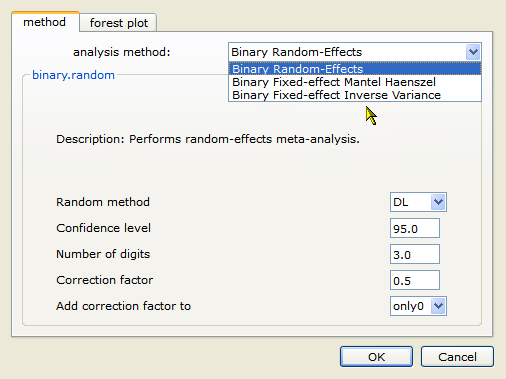
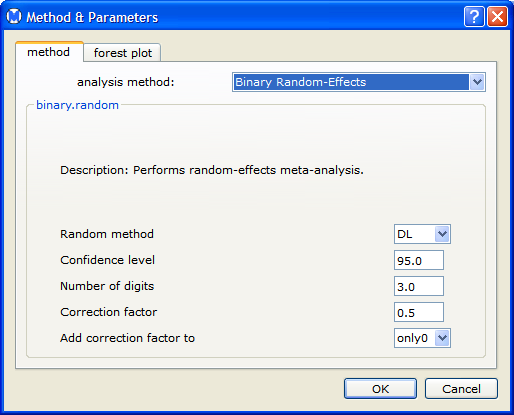
Doc update.

Changed region(s): [[0.0, 0.0, 1.0, 1.0], [0.0889, 0.3483, 0.7115, 0.4354]]

diff --git a/doc/analysis_options.html b/doc/analysis_options.html
@@ -1,25 +1,34 @@
+<html>
+<head>
 <link href="css/help.css" 
 type=text/css rel=stylesheet>
+</head>
+<body>
 <h2><a name="top">Meta-Analysis Options</a></h2>
-  <p>The following analysis options are available in the Methods & Parameters dialog.</p>
+  <p>You can choose options for a meta-analysis by selecting the <b>method</b> tab of the Method & Parameters dialog, shown below.
+</p>
    <p><img src="images/analysis_parameters_dialog.png"></p>
+ <h3>Options for All Methods Except HSROC</h3>
+ <p> The following analysis options are available for all methods except HSROC:</p>  
   <ul>
-      <li>analysis method - The method for the meta-analysis</li>
-      <li>Random method (
-  		<li>Confidence level - The confidence level for the estimate</li>
-  		<li>Number of digits - The number of digits after the decimal point to be displayed in results.</li>
-  </ul>
-  <h3>Binary and Continuous Data Only</h3>
-  <ul>
-  		<li>Correction factor - Number added to the data when there are studies that have zero counts. The correction is added according to the
-  		the value of the <b>Add correction factor to</b> parameter.</li><br>
-  		<li>Add correction factor to - Can take one of the following values:<br>
+      <li>analysis method - Method for the meta-analysis. See <a href="analysis_methods.html">Meta-Analysis Methods</a>.</li>
+      <li>Random method -Random-effects method. <b>Note:</b> This is only available when <b>Random-Effects</b> is selected in the analysis method field. See <a                            href="analysis_methods.html#random">Random-Effects Options</a>.</li>
+  		<li>Confidence level - Confidence level for the estimate</li>
+  		<li>Number of digits - Number of digits after the decimal point to be displayed in results.</li>
+  		<li>Correction factor - Number added to the data when there are studies that have zero counts. </li>
+  		<li>Add correction factor to - Determines when the correction factor is applied:
   				<ul>
-  						<li>only0 - The correction factor is only added to the data for studies that have zero counts.</li><br>
+  						<li>only0 - The correction factor is only added to the data for studies that have zero counts.</li>
   						<li>all - When at least one study has a zero count, the correction factor is added to the data for all studies.</li>
   				</ul>
   	</ul>
-  	<h3>Random-Effect Models</h3>
+  	<h3>HSROC Options</h3>
+  	<p>The following options are available for the diagnostic method HSROC (Hierarchical Summary Receiver Operating Characteristic):</p>
   	<ul>
-  		<li>rm.method - Specifies the method for the model.</li>
-  	</ul>	
+  	  <li>Number of iterations - Number of iterations of the Gibbs sampler.</li>
+  	  <li>Burn in - Number of initial iterations of the Gibbs sampler to be dropped</li>
+  	  <li>Thin - Integer k specifying that only iterations that are a multiple of k contribute to the estimates being calculated.</li>
+  	<ul>
+  	
+ </body>
+</html>

diff --git a/doc/analysis.html b/doc/analysis.html
@@ -19,14 +19,12 @@ type=text/css rel=stylesheet>
          <p><img src="images/analysis_menu.png"></p>
          <p>The risk ratios are now displayed in the effect size column.</p>
          <p><img src="images/amino_risk_ratio.png"></p>
-        <p>See <a href="analysis_metrics.html#top">Metric Options</a> for a complete description of the available metrics.</p> </li>
+         <p>See <a href="analysis_metrics.html#top">Metric Options</a> for a complete description of the available metrics.</p> </li>
     <li>In the <b>Analysis</b> menu,
-        select <b>meta-analysis</b> .
+        select <b>meta-analysis</b>.
        This opens the Methods &amp; Parameters dialog, as shown below.
-    <p><img src="images/analysis_parameters_dialog.png"></p></li>
-    <li>Click the analysis method field and select a method for the analysis. The default method is <b>Binary Random-Effects.</b>.
-       <p><img src="images/select_method.png"></p>
-       <p>See
+    <p><img src="images/analysis_parameters_dialog.png"></p>
+    <p>You can select a method in the analysis method field. The default method is <b>Binary Random-Effects.</b>. See
        <a href="analysis_methods.html#top">Analysis Options</a> for a complete description of the available methods.</p></li>
     <li>Select the <b>forest plot</b> tab, which displays the forest plot parameters dialog.</b>
     <p><img src="images/forest_plot_params.png"></p></li>
@@ -38,10 +36,11 @@ type=text/css rel=stylesheet>
   </ol>
   <p>The results are displayed in the results/analysis window, as shown below:</p>
   <ul>
-<li>The Summary contains the overall results of the meta-analysis, including the summary estimate, confidence interval, and heterogeneity statistics.</li>
+<li>The Summary contains individual study data and the overall results of the meta-analysis, including the summary estimate, confidence interval, and heterogeneity statistics.</li>
 <li>The Forest Plot provides a graphical display of the point estimates and confidence intervals for each study, as well as the overall estimate.</li>
 </ul>
-<p><img src="images/ma_standard_summary.png"></p>
+<p><img src="images/ma_study_data.png">
+<img src="images/ma_standard_summary.png"></p>
 <p><a id="Lau_ref">Source: Barza, M., Ioannidis, J., Cappelleri, J., Lau, J.  "Single or multiple daily doses of aminoglycosides: a meta-analysis." BMJ, Vol. 312, 1966. </a></p>
 <p><a href="#top">Back to top</a></p>
 <br>

diff --git a/doc/plot_options.html b/doc/plot_options.html
@@ -6,13 +6,13 @@ type=text/css rel=stylesheet>
   src="images/plot_options.png"></img>&nbsp;</img>     
   <p>In the forest plot pane, you can specify labels for the following columns displayed on the forest plot:</p>
      <ul>
-        <li>col 1 - The study names column</li>
-        <li>col 2 - Estimates and confidence intervals</li>
+        <li>col 1 label - The study names column</li>
+        <li>col 2 label - Estimates and confidence intervals</li>
      </ul>
      <p>For binary data only you can also specify the following column labels:</p>
       <ul>
-        <li>col 3 - Raw data for number of events and subjects in the treatment group.</li>
-        <li>col 4 - Raw data for number of events and subjects in the control group.</li>
+        <li>col 3 label - Raw data for number of events and subjects in the treatment group.</li>
+        <li>col 4 label - Raw data for number of events and subjects in the control group.</li>
     </ul>   
   <p>To prevent a column or columns from being 
   displayed in the forest plot, clear the <b>show</b> check boxes corresponding to those columns.</p>
@@ -22,5 +22,5 @@ type=text/css rel=stylesheet>
  		<li>x-axis lower bound - Lower bound for the range of data displyed in the plot. <b>Note:</b> x-axis lower bound must be less than the effect size for all studies - otherwise, the setting is ignored.</li>
  		<li>x-axis upper bound - Upper bound for the range of data displyed in the plot. <b>Note:</b> x-axis upper bound must be greater than the effect size for all studies - otherwise, the setting is ignored.</li>
  		<li>x ticks - Tick marks for the x-axis</li>
- 		<li>save image to: - The local directory in which the forest plot is saved.</li>
+ 		<li>save image to: - The path to the file in which the forest plot is saved</li>
  </ul>

diff --git a/doc/analysis_methods.html b/doc/analysis_methods.html
@@ -1,7 +1,11 @@
+<html>
+<head>
 <link href="css/help.css" 
 type=text/css rel=stylesheet>
+</head>
+<body>
 <h2><a name="top">Meta-Analysis Methods</a></h2>
-  <p>This section describes the analysis methods available in Open Meta-Analyst.</p>
+  <p>The following methods are available for performing a meta-analysis. You can select a method in the analysis method field in the Method & Parameters dialog.</p>
   <h3>Binary Methods</h3>
     <ul>
       <li>Fixed-effect inverse variance</li>
@@ -17,17 +21,20 @@ type=text/css rel=stylesheet>
      </ul>
   <h3>Diagnostic Methods</h3>
   	  <ul>
+  	    <li>Bivariate (Maximum Likelihood)</li>
+       <li>HSROC (Hierarchical Summary Receiver Operating Characteristic)</li>
        <li>Fixed-effect inverse variance</li>
-       <li>Random-effects</li>
-    </ul>
-    
-  <p>Random-effects methods include the following:</p>
-     <ul>
-       <li>HE - Hedges estimator</li>
-       <li>DL - DerSimonian-Laird</li>
-       <li>SJ - Sidik-Jonkman</li>
-       <li>ML - Maximum likelihood</li>
-       <li>REML - Restricted maximum likelihood</li>
-       <li>EB - Empirical Bayes</li>
-  </ul>
-     
+       <li>Random-effects
+     </ul>
+ <p><b>Random-Effects Options</b></p>    
+ <p><a name="random">For random-effects methods, the following options are available:</a></p>
+       <ul>
+          <li>HE - Hedges estimator</li>
+          <li>DL - DerSimonian-Laird</li>
+          <li>SJ - Sidik-Jonkman</li>
+          <li>ML - Maximum likelihood</li>
+          <li>REML - Restricted maximum likelihood</li>
+          <li>EB - Empirical Bayes</li>
+      </ul>     
+</body>
+</html>

diff --git a/doc/analysis_metrics.html b/doc/analysis_metrics.html
@@ -1,5 +1,9 @@
+<html>
+<head>
 <link href="css/help.css" 
 type=text/css rel=stylesheet>
+</head>
+<body>
 <h2><a name="top">Analysis Metrics</a></h2>
   <p>This section describes the metrics available in Open Meta-Analyst.</p>
   <h3>Metrics for Binary Data</h3>
@@ -43,14 +47,15 @@ type=text/css rel=stylesheet>
   	
   	<h3>Metrics for Diagnostic Data</h3>
   	<ul>
-  	   <li><b>sensitivity</b> - TP / (TP + FN)</li>
-  	   <li><b>specificity</b> - TN / (TN + FP)</li>
+  	   <li><b>sensitivity:</b> &nbsp;&nbsp;&nbsp;&nbsp; TP / (TP + FN)</li>
+  	   <li><b>specificity:</b> &nbsp;&nbsp;&nbsp;&nbsp; TN / (TN + FP)</li>
   	   <li><b>likelihood ratio</b>
   	       <ul>
-  	           <li>Positive likelihood ratio - sensitivity / (1 - specificity)</li>
-  	           <li>Negative likelihood ratio - (1 - sensitivity) / specificity</li>
+  	           <li><b>Positive likelihood ratio:</b> &nbsp;&nbsp;&nbsp;&nbsp; sensitivity / (1 - specificity)</li>
+  	           <li><b>Negative likelihood ratio:</b> &nbsp;&nbsp;&nbsp;&nbsp; (1 - sensitivity) / specificity</li>
   	       </ul>
   	    </li>
-  	    <li><b>diagnostic odds ratio</b> - (TP + TN) / (FP + FN)</li>
+  	    <li><b>diagnostic odds ratio:</b> &nbsp;&nbsp;&nbsp;&nbsp; (TP + TN) / (FP + FN)</li>
    </ul>
-  
+</body>
+</html>  

diff --git a/doc/openMA_help.html b/doc/openMA_help.html
@@ -74,11 +74,11 @@ function calcHeight()
 <h3><a href="#">Reference</a></h3>
 <div>
     <ul align="left" style="list-style-image: url(images/orball_small.gif)">
-      <li><a href="#self" onclick="frames['IFrameName'].location.href='analysis_methods.html'">Methods</a> </li>
-      <li><a href="#self" onclick="frames['IFrameName'].location.href='analysis_metrics.html'">Metrics</a> </li>
       <li><a href="#self" onclick="frames['IFrameName'].location.href='analysis_options.html'">Analysis Options</a> </li>
+      <li><a href="#self" onclick="frames['IFrameName'].location.href='analysis_methods.html'">Analysis Methods</a> </li>
+      <li><a href="#self" onclick="frames['IFrameName'].location.href='analysis_metrics.html'">Analysis Metrics</a> </li>
       <li><a href="#self" onclick="frames['IFrameName'].location.href='plot_options.html'">Forest Plot Options</a></li>
-    </ul>
+   </ul>
 </div>
 </div>
 </td>
